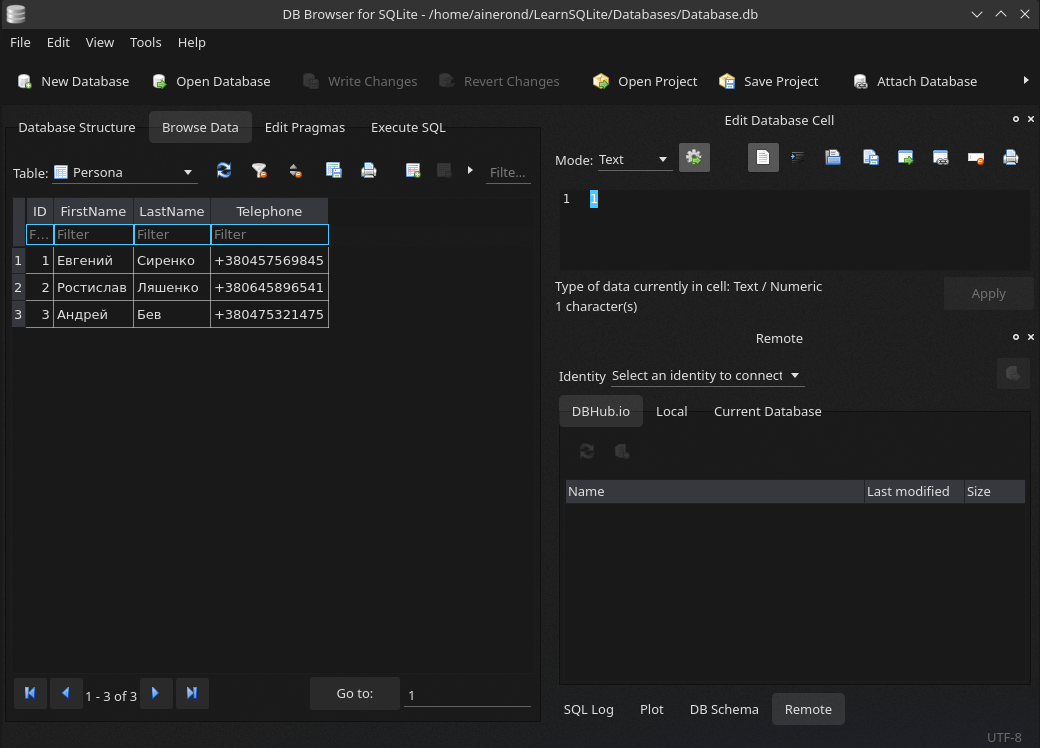
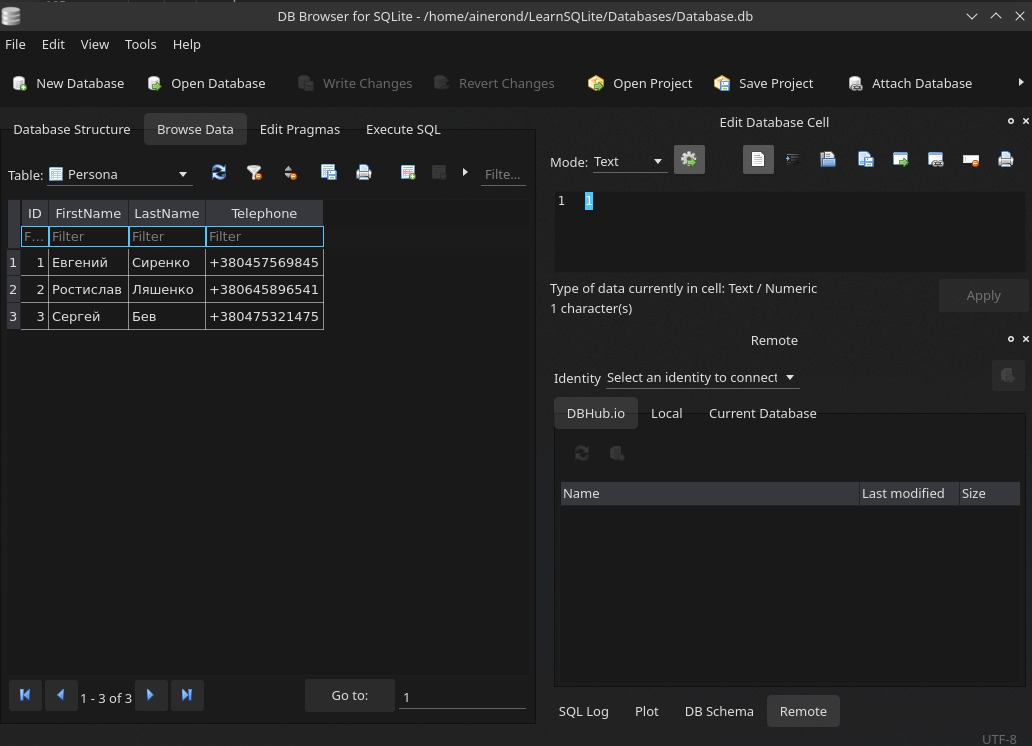
Using sql command 'UPDATE'

diff --git a/SQLite/CreatePersonaDatabase/Program.cs b/SQLite/CreatePersonaDatabase/Program.cs
@@ -6,16 +6,17 @@ namespace PracticeSQLite
 {
     static class Program
     {
-        private static string _fileName, _fullLocationToFile;
-        private static SQLiteConnection _connection;
-        
+        private static string _fileName, _fullLocationToFile, _connectionString;
+
         static void Main(string[] args)
         {
-            Console.Write("Полное имя базы даных которою хотите создать: ");
+            //Console.Write("Полное имя базы даных которою хотите создать: ");
+            Console.Write("Имя файла: ");
             _fileName = Console.ReadLine();
             _fullLocationToFile = @"/home/ainerond/LearnSQLite/Databases/" + _fileName;
+            _connectionString = "DataSource = " + _fullLocationToFile + ";";
 
-            if (!File.Exists(_fullLocationToFile))
+            /*if (!File.Exists(_fullLocationToFile))
             {
                 SQLiteConnection.CreateFile(_fullLocationToFile);
             }
@@ -26,21 +27,39 @@ namespace PracticeSQLite
             }
             
             CreateTable();
-            AddData();
+            AddData();*/
             
+            UpdateName(3, "Сергей"); //заменить имя персоны у которой id = 3 
+
             Console.WriteLine("Выход из программы...");
+        }
+
+        private static void UpdateName(int id, string replaceByName)
+        {
+            using (var connection = new SQLiteConnection(_connectionString))
+            {
+                SQLiteCommand command =
+                    new SQLiteCommand("UPDATE Persona SET FirstName = @name WHERE ID == @id", connection);
+                command.Parameters.AddWithValue("@name", replaceByName);
+                command.Parameters.AddWithValue("@id", id);
+                
+                connection.Open();
+                command.ExecuteNonQuery();
+                connection.Close();
+                Console.WriteLine("Успешно заменено!");
+            }
         }
 
         private static void CreateTable()
         {
-            using (_connection = new SQLiteConnection("DataSource = " + _fullLocationToFile + ";"))
+            using (var connection = new SQLiteConnection(_connectionString))
             {
                 string commandStr = "CREATE TABLE Persona (ID INTEGER PRIMARY KEY, FirstName TEXT, LastName TEXT, Telephone TEXT);";
 
-                SQLiteCommand command = new SQLiteCommand(commandStr, _connection);
-                _connection.Open();
+                SQLiteCommand command = new SQLiteCommand(commandStr, connection);
+                connection.Open();
                 command.ExecuteNonQuery(); //выполнение запроса
-                _connection.Close();
+                connection.Close();
             }
         }
 
@@ -48,7 +67,7 @@ namespace PracticeSQLite
         {
             try
             {
-                using (_connection = new SQLiteConnection("DataSource = " + _fullLocationToFile + ";"))
+                using (var connection = new SQLiteConnection(_connectionString))
                 {
                     string commandStr, temp;
                     Console.Write("Для выхода напишите !Exit. \nВведите даные персоны (Имя Фамилия Телефон): ");
@@ -60,14 +79,14 @@ namespace PracticeSQLite
                             commandStr =
                                 "INSERT INTO Persona (FirstName, LastName, Telephone) VALUES (@fName, @lName, @tel)";
 
-                            SQLiteCommand command = new SQLiteCommand(commandStr, _connection);
+                            SQLiteCommand command = new SQLiteCommand(commandStr, connection);
                             command.Parameters.AddWithValue("@fName", personData[0]);
                             command.Parameters.AddWithValue("@lName", personData[1]);
                             command.Parameters.AddWithValue("@tel", personData[2]);
 
-                            _connection.Open();
+                            connection.Open();
                             command.ExecuteNonQuery();
-                            _connection.Close();
+                            connection.Close();
 
                             Console.WriteLine("Данные записано!");
                         }
@@ -90,15 +109,8 @@ namespace PracticeSQLite
 
 /*
 
-Полное имя базы даных которою хотите создать: Database.db
-Для выхода напишите !Exit. 
-Введите даные персоны (Имя Фамилия Телефон): Евгений Сиренко +380457569845
-Данные записано!
-Введите даные персоны (Имя Фамилия Телефон): Ростислав Ляшенко +380645896541
-Данные записано!
-Введите даные персоны (Имя Фамилия Телефон): Андрей Бев +380475321475
-Данные записано!
-Введите даные персоны (Имя Фамилия Телефон): !Exit
+Имя файла: Database.db
+Успешно заменено!
 Выход из программы...
 
  */
